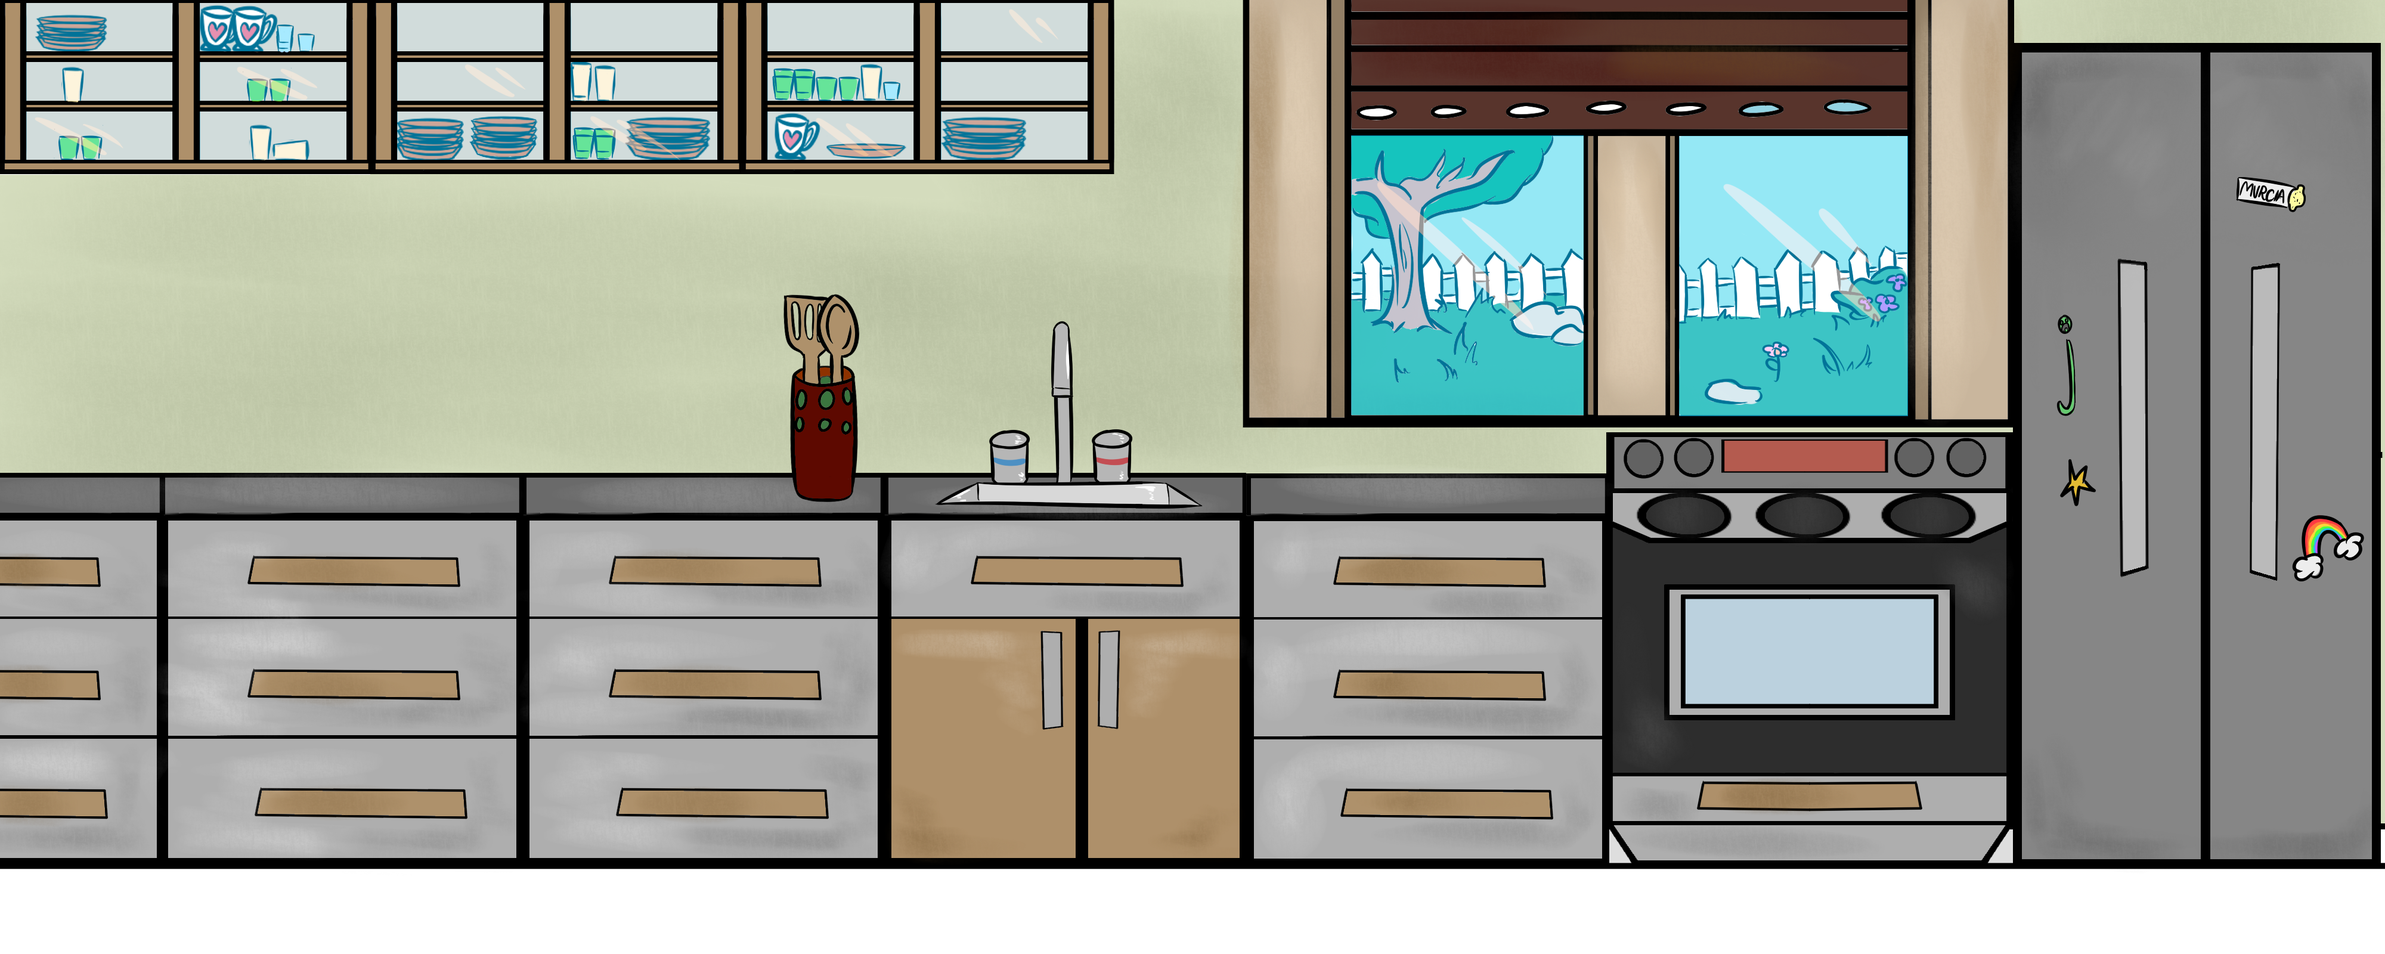
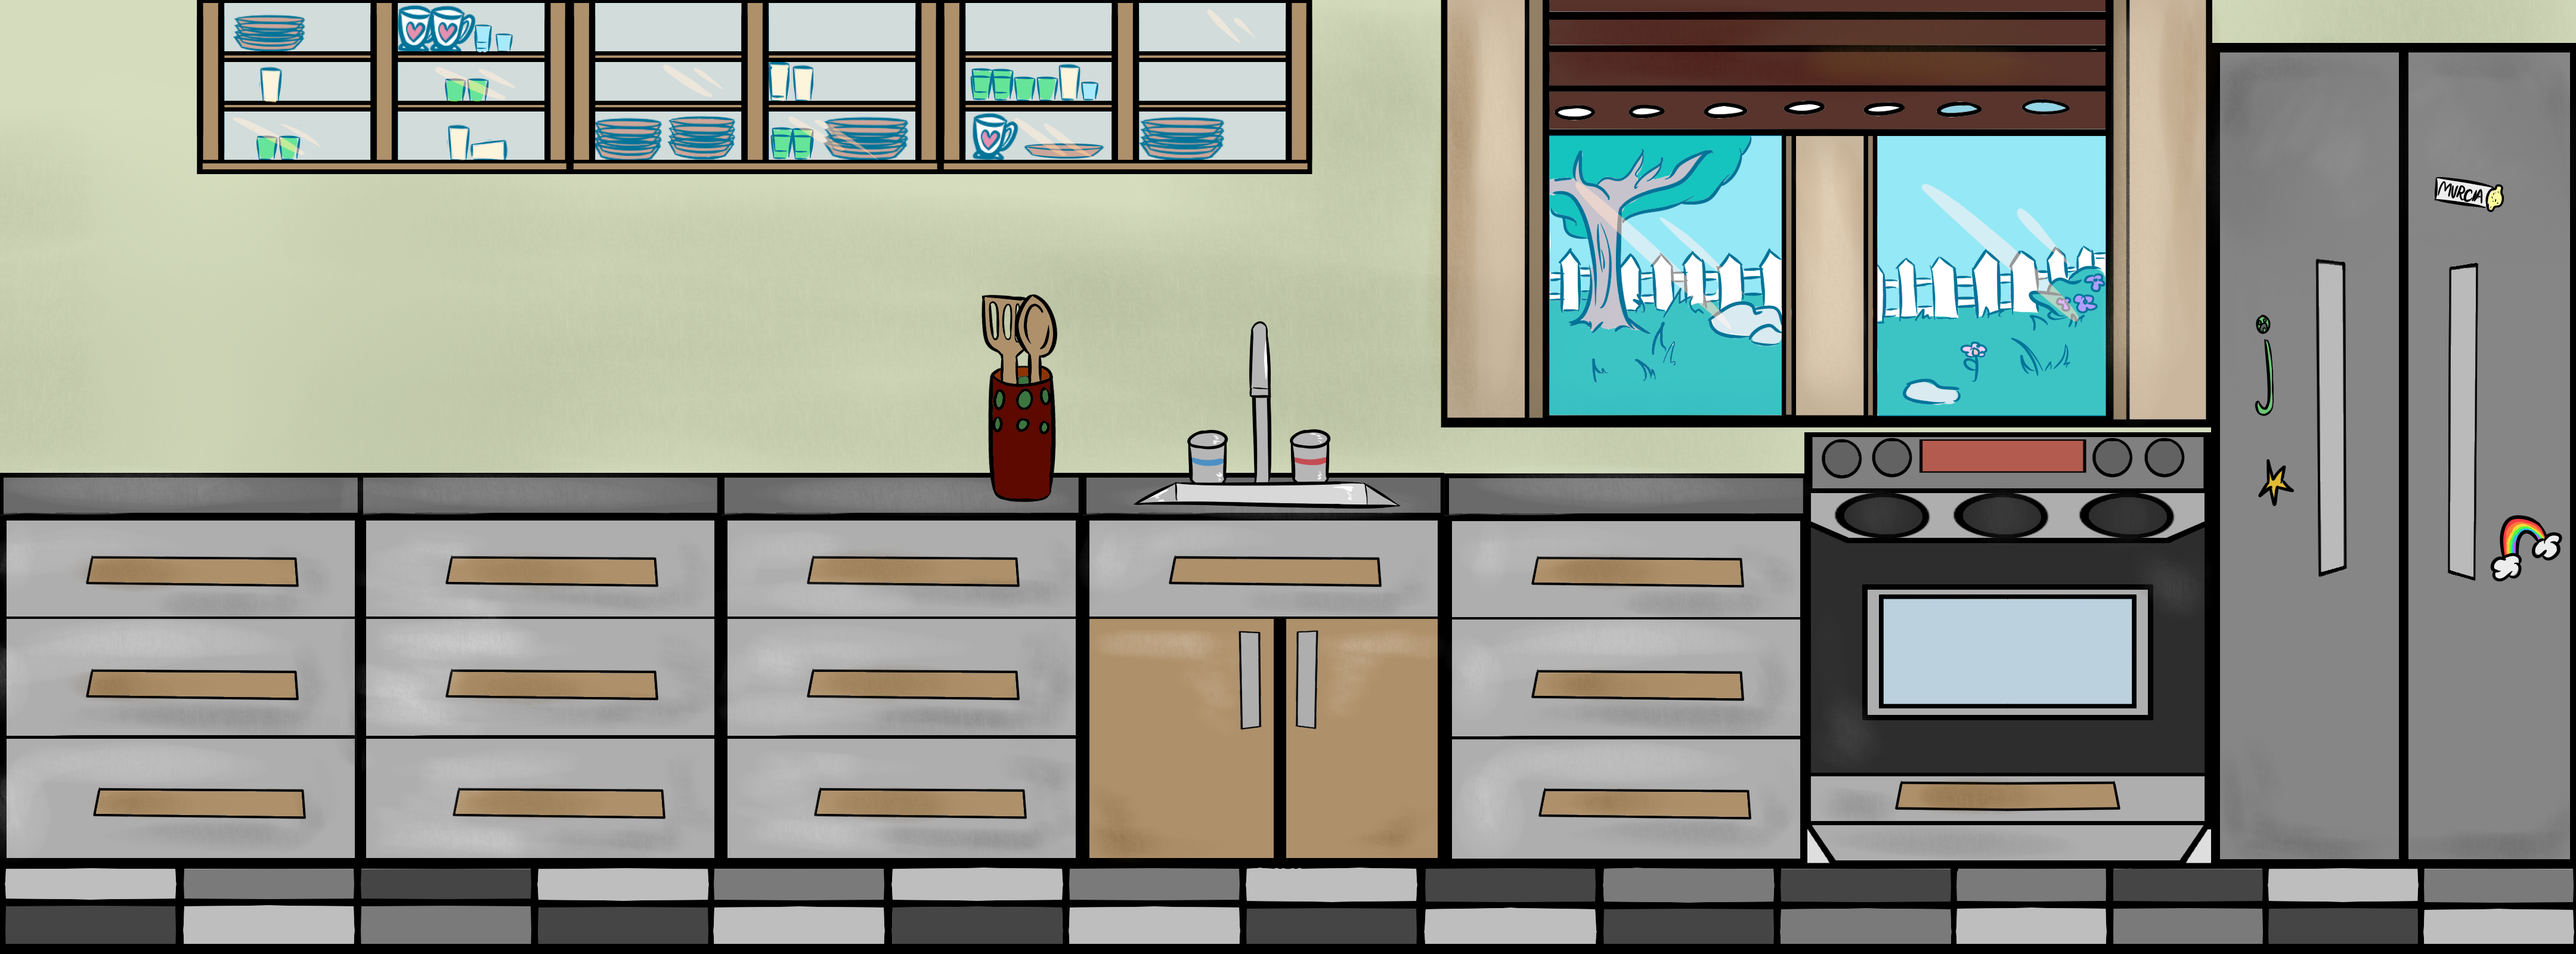
pintar paredes, background y sarten

diff --git a/src/main/resources/static/src/states/singlePlayer.js b/src/main/resources/static/src/states/singlePlayer.js
@@ -13,13 +13,12 @@ Slooow.singlePlayerState.prototype = {
 		if (game.global.DEBUG_MODE) {
 			console.log("[DEBUG] Entering **SINGLEPLAYER** state");
 		}
-
-		game.world.setBounds(0, 0, 8000, 1600);
+		game.world.setBounds(0, 0, 8640, 1600);
 	},
 
 	preload: function () {
 
-		var b = game.add.tileSprite (0, game.world.height, 8000, 1600, 'cocina_back')
+		var b = game.add.tileSprite (0, game.world.height, 8640, 1600, 'cocina_back')
 		b.anchor.set (0, 1)
 		//b.scale.set (0.35, 0.35)
 		b.tileScale.setTo (0.99,1)
@@ -79,17 +78,25 @@ Slooow.singlePlayerState.prototype = {
 		//Pintamos las trampillas
 		//console.log('num of trapdoors: ' + game.global.arrayTrapdoors.length)
 		for (var i = 0; i< game.global.arrayTrapdoors.length; i++){
-			console.log('num of trapdoors: ' + game.global.arrayTrapdoors.length)
+			//console.log('num of trapdoors: ' + game.global.arrayTrapdoors.length)
 			game.global.arrayTrapdoors[i] = game.add.image(game.global.arrayTrapdoors[i].x, game.world.height/*game.world.getBounds().y*/ - game.global.arrayTrapdoors[i].y, 'trapdoor')
 			game.global.arrayTrapdoors[i].frame = 0
 			game.global.arrayTrapdoors[i].visible = true
 			game.global.arrayTrapdoors[i].anchor.setTo (0,0)
-			game.global.arrayTrapdoors[i].scale.setTo (0.14,0.3)
+			game.global.arrayTrapdoors[i].scale.setTo (0.21,0.3)
+		}
+
+		for (var i = 0; i< game.global.arrayTrampolines.length; i++){
+			game.global.arrayTrampolines[i] = game.add.image(game.global.arrayTrampolines[i].x, game.world.height - game.global.arrayTrampolines[i].y-150, 'sartenSpritesheet')
+			game.global.arrayTrampolines[i].frame = 0
+			game.global.arrayTrampolines[i].animations.add('activate')
+			//game.global.arrayTrampolines[i].animations.play('activate', 8, true)
+			game.global.arrayTrampolines[i].visible = true
+			game.global.arrayTrampolines[i].anchor.setTo(0,0)
+			game.global.arrayTrampolines[i].scale.setTo(0.5, 0.5)
 		}
 
 		//game.global.player.sprite = game.add.sprite(game.world.centerX, game.world.centerY, 'catSnail')
-		
-
 		
 			game.global.player.sprite = game.add.sprite(game.world.centerX, game.world.centerY, 'SnailWalk')
 			game.global.player.sprite.animations.add ('walk')
@@ -185,7 +192,7 @@ Slooow.singlePlayerState.prototype = {
 			//console.log(game.global.arrayWalls[i].height)
 			//console.log(game.global.arrayWalls[i].width)
 			//console.log('screen height' + game.world.height)
-			this.graphics.drawRect(game.global.arrayWalls[i].x, game.world.height - game.global.arrayWalls[i].y, game.global.arrayWalls[i].width, -game.global.arrayWalls[i].height)
+			//this.graphics.drawRect(game.global.arrayWalls[i].x, game.world.height - game.global.arrayWalls[i].y, game.global.arrayWalls[i].width, -game.global.arrayWalls[i].height)
 		}
 
 		for (var i = 0; i < game.global.arraySlopes.length; i++) {
@@ -194,7 +201,7 @@ Slooow.singlePlayerState.prototype = {
 			//console.log(game.global.arraySlopes[i].height)
 			//console.log(game.global.arraySlopes[i].width)
 			//console.log('screen height' + game.world.height)
-			this.graphics.drawRect(game.global.arraySlopes[i].x, game.world.height - game.global.arraySlopes[i].y, game.global.arraySlopes[i].width, -game.global.arraySlopes[i].height)
+			//this.graphics.drawRect(game.global.arraySlopes[i].x, game.world.height - game.global.arraySlopes[i].y, game.global.arraySlopes[i].width, -game.global.arraySlopes[i].height)
 		}
 
 		for (var i = 0; i < game.global.arrayObstacleSpikes.length; i++) {
@@ -212,7 +219,7 @@ Slooow.singlePlayerState.prototype = {
 			console.log(game.global.arrayPowerUps[i].height)
 			console.log(game.global.arrayPowerUps[i].width)
 			console.log('screen height' + game.world.height)
-			this.graphics.drawRect(game.global.arrayPowerUps[i].x, game.world.height - game.global.arrayPowerUps[i].y, game.global.arrayPowerUps[i].width, -game.global.arrayPowerUps[i].height)
+			//this.graphics.drawRect(game.global.arrayPowerUps[i].x, game.world.height - game.global.arrayPowerUps[i].y, game.global.arrayPowerUps[i].width, -game.global.arrayPowerUps[i].height)
 		}
 
 		function actionOnClickBack() {

diff --git a/src/main/resources/static/src/index.js b/src/main/resources/static/src/index.js
@@ -81,7 +81,10 @@ window.onload = function () {
         arrayObstacleSpikes: [],
         //Array de power ups
         arrayPowerUps: [],
+        //ArrayTrapdoors
         arrayTrapdoors: [],
+        //Array de trampolines
+        arrayTrampolines: [],
         player: new this.Object()
     }
 
@@ -103,7 +106,6 @@ window.onload = function () {
             console.log(msg);
         }
         
-
         switch (msg.event) {
 
             case 'TICK':
@@ -131,6 +133,7 @@ window.onload = function () {
                 var numOfObstacleSpikes = 0;
                 var numOfPowerUps = 0;
                 var numOfTrapdoors = 0;
+                var numOfTrampolines = 0;
 
                 for (var i = 0; i < type.length; i++) {
                     switch (type[i]) {
@@ -209,6 +212,14 @@ window.onload = function () {
                             console.log('trapdoor')
                             console.dir(game.global.arrayTrapdoors)
                             break
+                        case 'TRAMPOLINE':
+                            this.game.global.arrayTrampolines[numOfTrampolines] = new Object()
+                            game.global.arrayTrampolines[numOfTrampolines].x = arrayPosX[i]
+                            game.global.arrayTrampolines[numOfTrampolines].y = arrayPosY[i]
+                            game.global.arrayTrampolines[numOfTrampolines].height = arrayHeight[i]
+                            game.global.arrayTrampolines[numOfTrampolines].width = arrayWidth[i]
+                            numOfTrampolines++;
+                            break    
                         default:
                             this.console.log('tipo sin reconocer ' + type[i])
                             break
@@ -253,6 +264,9 @@ window.onload = function () {
                 }
                 console.log(this.game.global.arrayTrapdoors[id])
                 break
+            case 'UPDATETRAMPOLINE':
+                
+                break    
         }
 
        

diff --git a/src/main/resources/static/src/states/preload.js b/src/main/resources/static/src/states/preload.js
@@ -26,11 +26,13 @@ Slooow.preloadState.prototype = {
 		game.load.image('tankSnail', './assets/img/tanquecol.png');
 		game.load.image('button', './assets/img/button.png');
 		game.load.image('groundTile', './assets/img/suelo_C_Pequenio.png')
-		game.load.image('wallTile', './assets/img/pared02.png')
+		game.load.image('wallTile', './assets/img/pared.png')
 		game.load.image('slopeDown', './assets/img/tenedor_horizontal.png')
+		game.load.image('sartenSprite', './assets/img/sarten_normal.png')
+
 		game.load.spritesheet('trapdoor', './assets/img/trampilla_sheet.png', 600, 300, 2)
-		
 		game.load.spritesheet ('SnailWalk', './assets/img/normalcol_spritesheet.png', 500, 300, 8)
+		game.load.spritesheet('sartenSpritesheet', './assets/img/sarten_spritesheet.png', 600, 600, 8)
 
 	},
 
